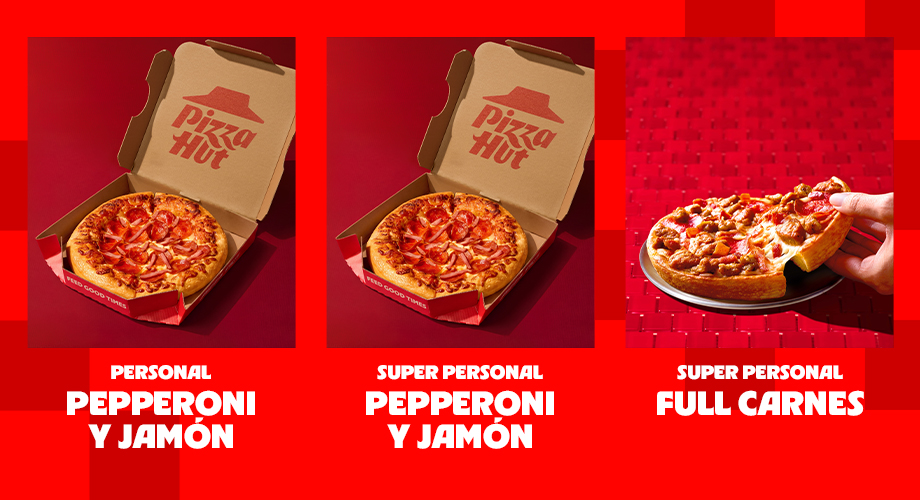
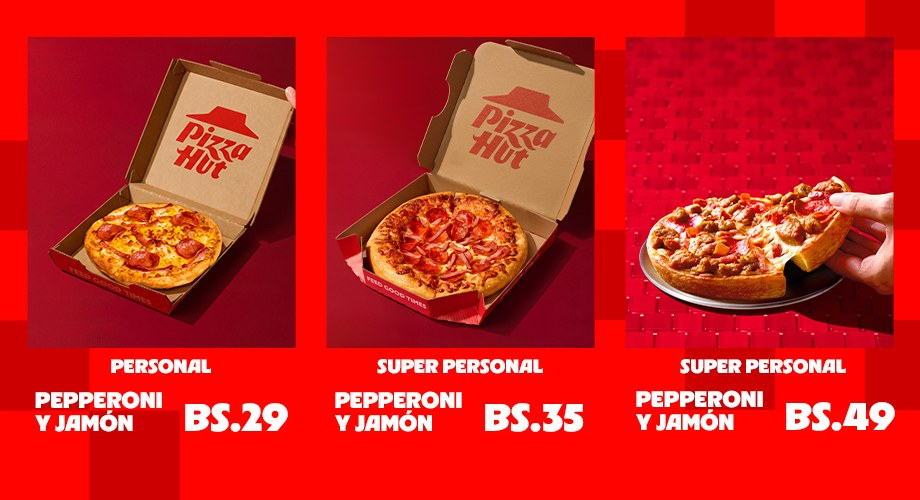
Actualizar menú con precios

diff --git a/index.html b/index.html
@@ -34,7 +34,7 @@
       <div class="container">
         <p class="kicker kicker--red">NUESTRO MENÚ</p>
         <h2>Elige tu pizza favorita</h2>
-        <img class="menu-image" src="menu.jpg" alt="Menú Pizza Hut Express: Personal Pepperoni y Jamón, Super Personal Pepperoni y Jamón, Super Personal Full Carnes" loading="lazy">
+        <img class="menu-image" src="menu.jpg?v=2" alt="Menú Pizza Hut Express: Personal Pepperoni y Jamón, Super Personal Pepperoni y Jamón, Super Personal Full Carnes" loading="lazy">
       </div>
     </section>
 
